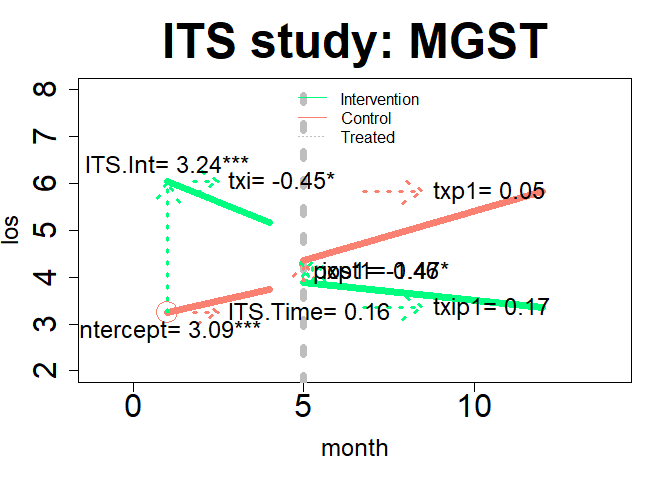
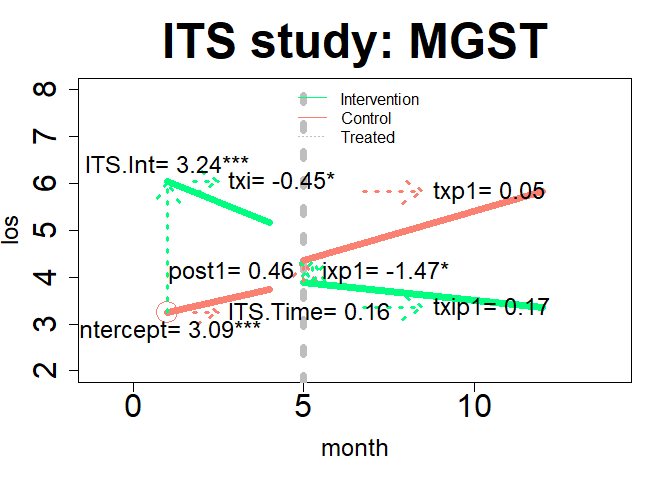
plot.assess: name argument, arrow & coefs only

Changed region(s): [[0.25, 0.5312, 0.4375, 0.5938], [0.4688, 0.5312, 0.6562, 0.5938]]

diff --git a/README.md b/README.md
@@ -851,8 +851,7 @@ Examples of new plotting options are below.
 
 ``` r
 plot(dm1, "DID", add.legend="bottom", ylim=c(2, 8), main="DID: Two No Coefficients",
-     col=c("dodgerblue","magenta"), lwd=7,
-     cex=2, cex.axis=2, cex.lab=1.5,  cex.main=3, arrow=TRUE, xshift=c(.02) )
+     col=c("dodgerblue","magenta"), lwd=7, cex=2, cex.axis=2, cex.lab=1.5,  cex.main=3, name=TRUE, )
 ```
 
 <img src="man/figures/README-revDID0-1.png" width="100%" />
@@ -887,7 +886,7 @@ plot(im12, "ITS", add.legend="topleft", xlim=c(-1, 14), ylim=c(2, 8),
 
 ``` r
 plot(im21, "ITS", add.legend="top", xlim=c(-1, 14), ylim=c(2, 8), 
-     main="ITS study: MGST", col=c("springgreen","salmon"), lwd=7, cex=3, cex.axis=2, cex.lab=1.5,  cex.main=3, arrow=TRUE, xshift=c(.25, .25), cex.text=1.5, coefs=TRUE, round.c=2 )
+     main="ITS study: MGST", col=c("springgreen","salmon"), lwd=7, cex=3, cex.axis=2, cex.lab=1.5,  cex.main=3, arrow=TRUE, xshift=c(.25, .25), cex.text=1.5, coefs=TRUE, round.c=2, pos.text= list("post1"=2) )
 ```
 
 <img src="man/figures/README-revITS3-1.png" width="100%" />
@@ -896,7 +895,7 @@ Using all plot options
 
 ``` r
 plot(im22, "ITS", add.legend="top", xlim=c(-.75, 13.1), ylim=c(2, 8), 
-     main="ITS study: MGMT", col=c("dodgerblue","goldenrod"), lwd=7, cex=3, cex.axis=2, cex.lab=1.5,  cex.main=3, cex.legend=1.25, arrow=TRUE, xshift=c(0, .5), cex.text=1.25, coefs=TRUE, round.c=2, pos.text= list("txp1"=3, "post2"=4))
+     main="ITS study: MGMT", col=c("dodgerblue","goldenrod"), lwd=7, cex=3, cex.axis=2, cex.lab=1.5,  cex.main=3, cex.legend=1.25, arrow=TRUE, xshift=c(0, .5), cex.text=1.25, name=F, coefs=TRUE, round.c=2, pos.text= list("txp1"=3, "post2"=4))
 ```
 
 <img src="man/figures/README-revITS4-1.png" width="100%" />
